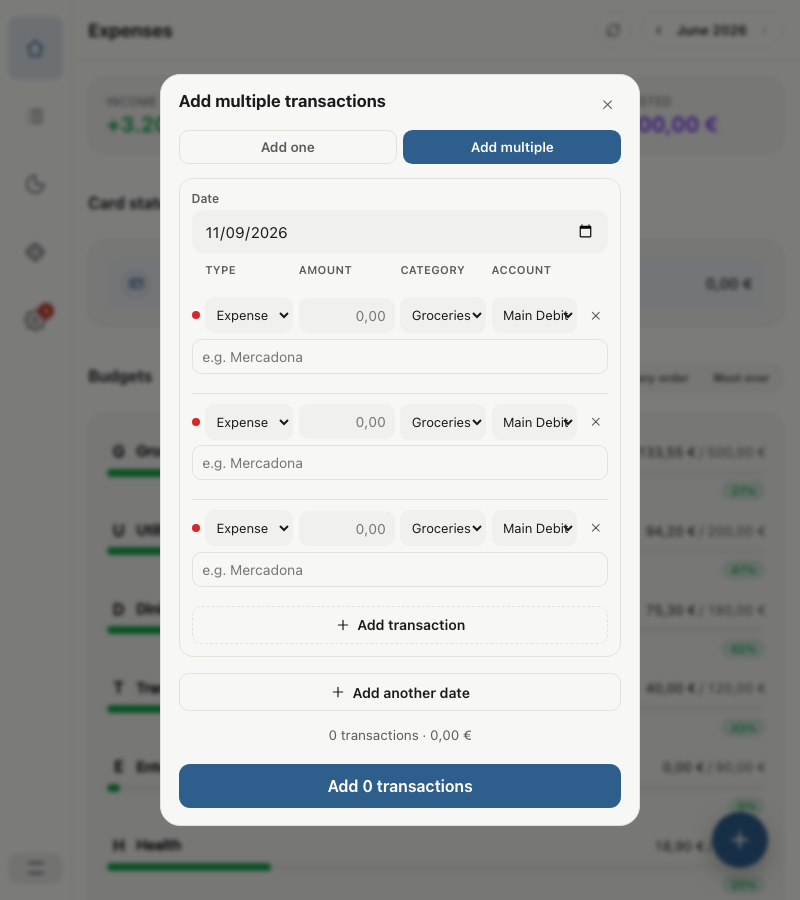
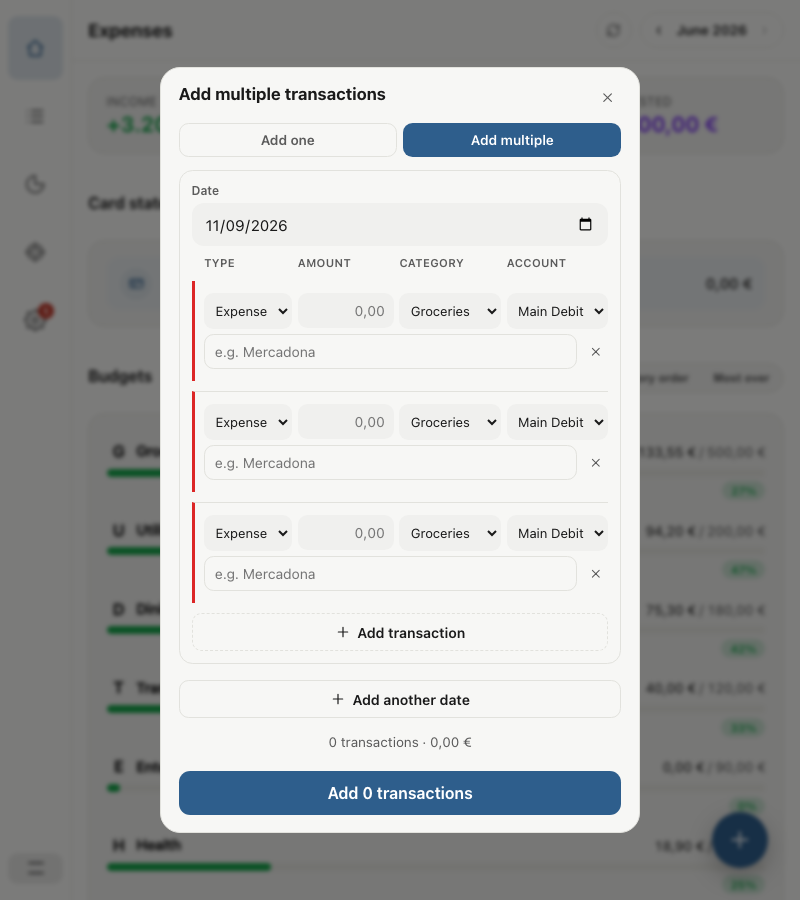
Replace inline dot with left border, move × to description line
Swap the per-row colored circle for a 3px left border — same type
color cue without the inline-space cost that broke left-alignment
on mobile. Move the remove button from the meta row to the end of
the description line, freeing ~46px on the meta row so category and
account labels no longer truncate on desktop.

diff --git a/src/ui/components/BatchTransactionForm.tsx b/src/ui/components/BatchTransactionForm.tsx
@@ -216,18 +216,15 @@ export function BatchTransactionForm({
           </div>
 
           <div className={styles.columnHeaders} aria-hidden="true">
-            <span className={styles.colHeaderDot} />
             <span className={styles.colHeaderType}>Type</span>
             <span className={styles.colHeaderAmount}>Amount</span>
             <span className={styles.colHeaderCat}>Category</span>
             <span className={styles.colHeaderAcct}>Account</span>
-            <span className={styles.colHeaderRemove} />
           </div>
 
           {batch.rows.map((row) => (
-            <div key={row.id} id={rowElementId(row.id)} className={styles.row}>
+            <div key={row.id} id={rowElementId(row.id)} className={styles.row} data-type={row.type}>
               <div className={styles.rowMeta}>
-                <span className={styles.typeDot} data-type={row.type} aria-hidden="true" />
                 <select
                   className={styles.compactType}
                   value={row.type}
@@ -268,6 +265,17 @@ export function BatchTransactionForm({
                     <option key={a.id} value={a.id}>{optionLabel(a)}</option>
                   ))}
                 </select>
+              </div>
+              <div className={styles.descriptionRow}>
+                <div className={styles.compactDescription}>
+                  <DescriptionCombobox
+                    value={row.description}
+                    index={model.descriptionIndex}
+                    placeholder="e.g. Mercadona"
+                    onChange={(v) => updateRow(batch.id, row.id, { description: v })}
+                    onAccept={(s) => onAcceptSuggestion(batch.id, row.id, s)}
+                  />
+                </div>
                 <button
                   type="button"
                   className={styles.removeRow}
@@ -276,15 +284,6 @@ export function BatchTransactionForm({
                 >
                   <CloseIcon />
                 </button>
-              </div>
-              <div className={styles.compactDescription}>
-                <DescriptionCombobox
-                  value={row.description}
-                  index={model.descriptionIndex}
-                  placeholder="e.g. Mercadona"
-                  onChange={(v) => updateRow(batch.id, row.id, { description: v })}
-                  onAccept={(s) => onAcceptSuggestion(batch.id, row.id, s)}
-                />
               </div>
               {errors[row.id] && <p className={formStyles.error}>{errors[row.id]}</p>}
             </div>

diff --git a/src/ui/components/BatchTransactionForm.module.css b/src/ui/components/BatchTransactionForm.module.css
@@ -32,7 +32,21 @@
   display: flex;
   flex-direction: column;
   gap: 0.35rem;
-  padding: 0.6rem 0;
+  padding: 0.75rem 0;
+  border-left: 3px solid var(--color-text-muted);
+  padding-left: 0.6rem;
+}
+.row[data-type='expense'] {
+  border-left-color: var(--exp-expense);
+}
+.row[data-type='income'] {
+  border-left-color: var(--exp-income);
+}
+.row[data-type='investment'] {
+  border-left-color: var(--exp-investment);
+}
+.row[data-type='refund'] {
+  border-left-color: var(--exp-refund);
 }
 .row + .row {
   border-top: 1px solid var(--color-border);
@@ -43,26 +57,6 @@
   flex-wrap: wrap;
   gap: 0.35rem;
   align-items: center;
-}
-
-.typeDot {
-  width: 0.5rem;
-  height: 0.5rem;
-  border-radius: 50%;
-  flex: none;
-  background: var(--color-text-muted);
-}
-.typeDot[data-type='expense'] {
-  background: var(--exp-expense);
-}
-.typeDot[data-type='income'] {
-  background: var(--exp-income);
-}
-.typeDot[data-type='investment'] {
-  background: var(--exp-investment);
-}
-.typeDot[data-type='refund'] {
-  background: var(--exp-refund);
 }
 
 .compactType {
@@ -103,7 +97,14 @@
   font-weight: 400;
 }
 
+.descriptionRow {
+  display: flex;
+  gap: 0.35rem;
+  align-items: center;
+}
+
 .compactDescription {
+  flex: 1;
   min-width: 0;
 }
 .compactDescription input {
@@ -167,10 +168,6 @@
   text-transform: uppercase;
   letter-spacing: 0.03em;
 }
-.colHeaderDot {
-  width: 0.5rem;
-  flex: none;
-}
 .colHeaderType {
   width: 5.5rem;
   flex: none;
@@ -186,10 +183,6 @@
 .colHeaderAcct {
   flex: 1 1 5rem;
   min-width: 0;
-}
-.colHeaderRemove {
-  width: 1.6rem;
-  flex: none;
 }
 
 /* ─── Buttons ─────────────────────────────────────────────────────────────── */
@@ -232,9 +225,8 @@
 @media (min-width: 560px) {
   .columnHeaders {
     display: flex;
-    flex-wrap: wrap;
     gap: 0.35rem;
-    padding: 0 0 0.15rem;
+    padding: 0 0 0.15rem calc(3px + 0.6rem);
     align-items: center;
   }
 
